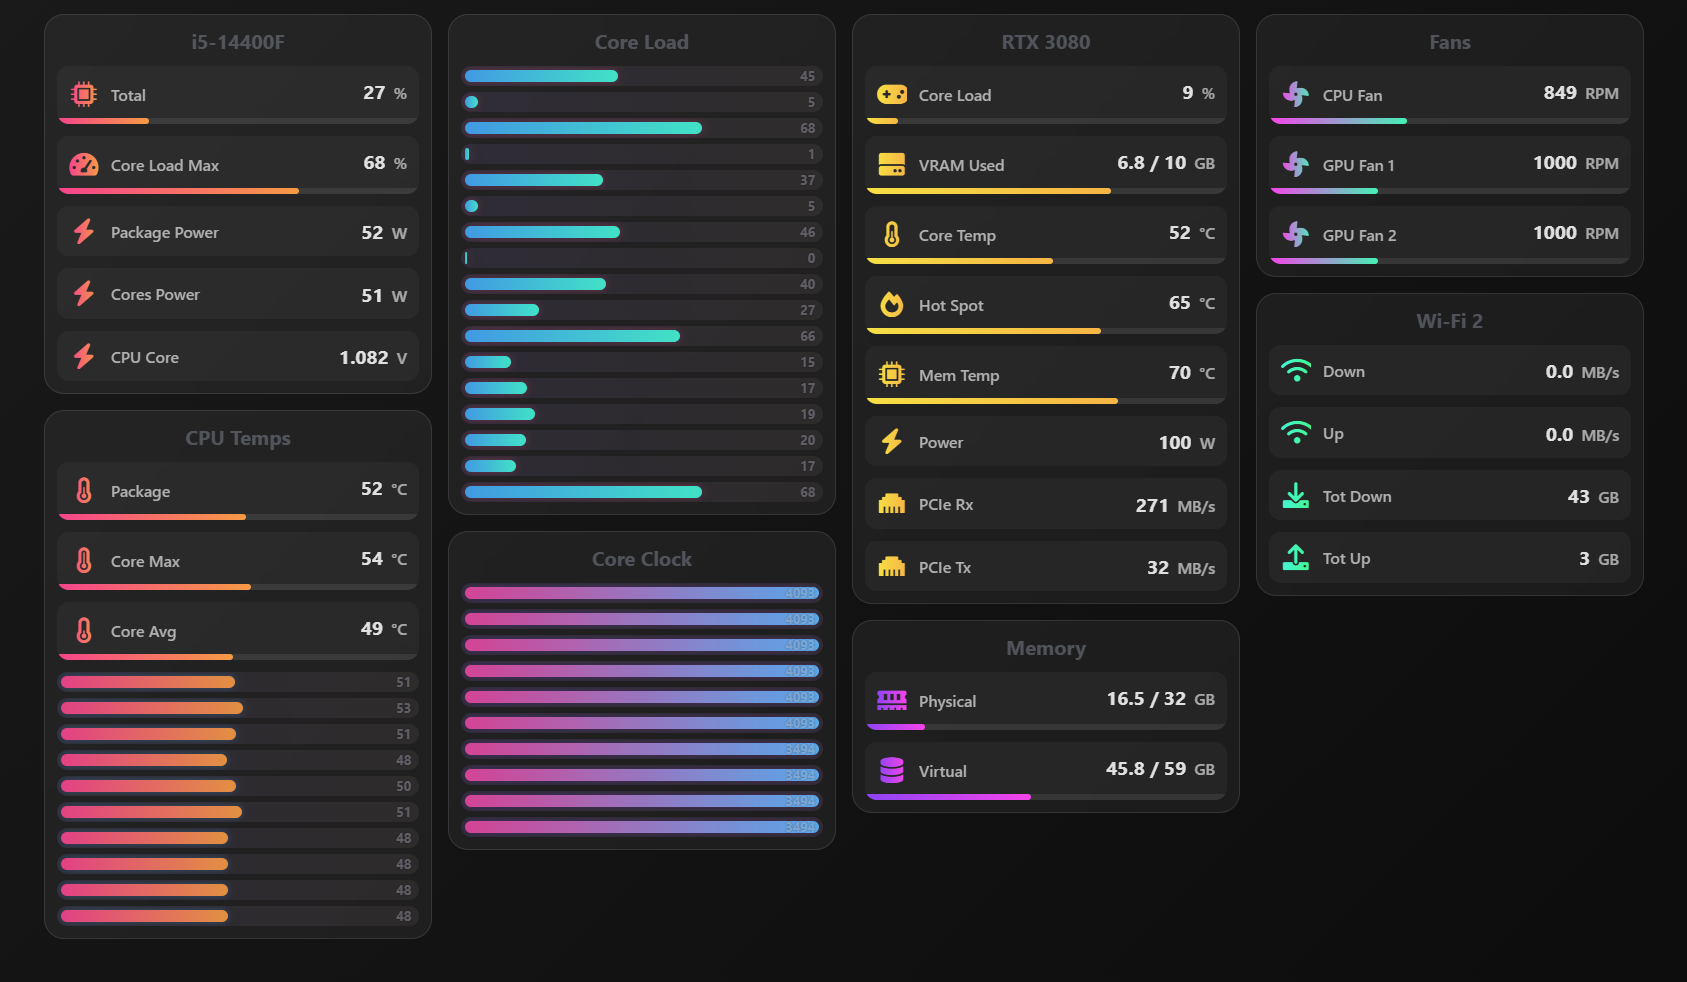
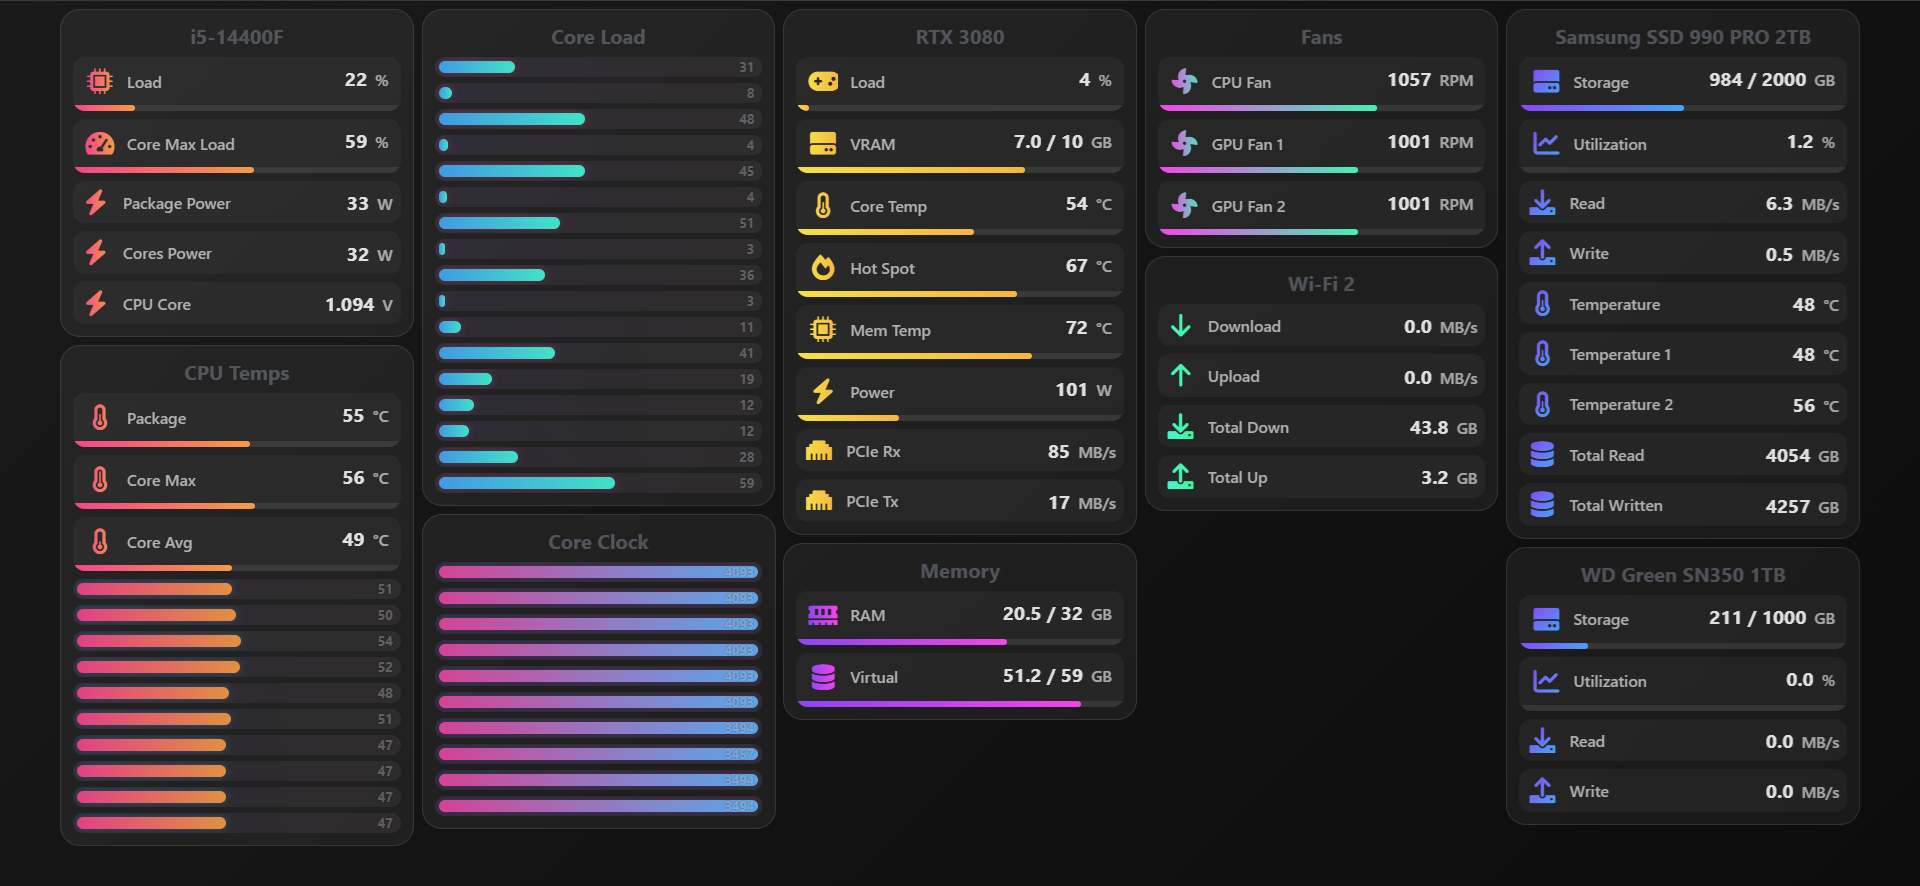
fix bugs

diff --git a/index.html b/index.html
@@ -219,11 +219,11 @@
                     <i class="fas fa-memory sensor-icon"></i>
                     <span class="sensor-label">RAM</span>
                     <div class="sensor-value-container">
-                        <span class="sensor-value" id="memory-combined"></span><span class="sensor-unit">GB</span>
+                        <span class="sensor-value" id="ram"></span><span class="sensor-unit">GB</span>
                     </div>
                 </div>
                 <div class="progress-bar">
-                    <div class="progress-bar-fill" id="memory-combined-bar"></div>
+                    <div class="progress-bar-fill" id="ram-bar"></div>
                 </div>
             </div>
             <div class="sensor-card">
@@ -231,12 +231,11 @@
                     <i class="fas fa-database sensor-icon"></i>
                     <span class="sensor-label">Virtual</span>
                     <div class="sensor-value-container">
-                        <span class="sensor-value" id="virtual-memory-combined"></span><span
-                            class="sensor-unit">GB</span>
+                        <span class="sensor-value" id="virtual-ram"></span><span class="sensor-unit">GB</span>
                     </div>
                 </div>
                 <div class="progress-bar">
-                    <div class="progress-bar-fill" id="virtual-memory-combined-bar"></div>
+                    <div class="progress-bar-fill" id="virtual-ram-bar"></div>
                 </div>
             </div>
         </div>
@@ -412,8 +411,7 @@
                     const htmlId = generateHtmlId(coreLoad.Text, 'load');
                     dynamicSensorMapping[htmlId] = {
                         apiId: coreLoad.SensorId,
-                        type: 'Load',
-                        barMax: 100
+                        barApiId: coreLoad.SensorId,
                     };
                 });
             }
@@ -429,7 +427,7 @@
                     dynamicSensorMapping[htmlId] = {
                         apiId: coreTemp.SensorId,
                         type: 'Temperature',
-                        barMax: 100
+                        barApiId: coreTemp.SensorId,
                     };
                 });
             }
@@ -636,7 +634,6 @@
                 dynamicSensorMapping[usedSpaceId] = {
                     apiId: sensors.usedSpace.SensorId,
                     type: 'Load',
-                    barMax: 100,
                     formatter: (value) => formatStorageCapacity(value, deviceName),
                     fixed: 1
                 };
@@ -654,7 +651,7 @@
                 dynamicSensorMapping[totalActivityId] = {
                     apiId: sensors.totalActivity.SensorId,
                     type: 'Load',
-                    barMax: 100,
+                    barApiId: sensors.totalActivity.SensorId,
                     fixed: 1
                 };
             } if (sensors.readRate) {
@@ -696,7 +693,6 @@
                 )); dynamicSensorMapping[tempId] = {
                     apiId: tempSensor.SensorId,
                     type: 'Temperature',
-                    barMax: 100,
                     fixed: 0
                 };
             }); if (sensors.dataRead) {
@@ -778,11 +774,13 @@
 
             return bar;
         }
+
         function parseValue(valueString) {
             if (!valueString) return NaN;
             const match = valueString.match(/(-?\d+(\.\d+)?)/);
             return match ? parseFloat(match[1]) : NaN;
         }
+
         function formatVRAM(usedValue) {
             if (isNaN(usedValue)) return '';
 
@@ -790,8 +788,7 @@
             if (totalSensor && totalSensor.Value !== undefined) {
                 let totalValue = parseValue(totalSensor.Value);
                 if (!isNaN(totalValue)) {
-                    totalValue /= 1024;
-                    return `${usedValue.toFixed(1)} / ${totalValue.toFixed(0)}`;
+                    return `${(usedValue / 1024).toFixed(1)} / ${(totalValue / 1024).toFixed(0)}`;
                 }
             }
 
@@ -814,29 +811,29 @@
         }
 
         const sensorMapping = {
-            'cpu-total-load': { apiId: '/intelcpu/0/load/0', type: 'Load', barMax: 100 },
-            'cpu-max-load': { apiId: '/intelcpu/0/load/1', type: 'Load', barMax: 100 },
+            'cpu-total-load': { apiId: '/intelcpu/0/load/0', type: 'Load', barApiId: '/intelcpu/0/load/0' },
+            'cpu-max-load': { apiId: '/intelcpu/0/load/1', type: 'Load', barApiId: '/intelcpu/0/load/1' },
             'cpu-package-power': { apiId: '/intelcpu/0/power/0', type: 'Power', fixed: 0 },
             'cpu-cores-power': { apiId: '/intelcpu/0/power/1', type: 'Power', fixed: 0 },
             'cpu-core-voltage': { apiId: '/intelcpu/0/voltage/0', type: 'Voltage', fixed: 3 },
 
-            'cpu-package-temp': { apiId: '/intelcpu/0/temperature/10', type: 'Temperature', barMax: 100 },
-            'cpu-core-max-temp': { apiId: '/intelcpu/0/temperature/21', type: 'Temperature', barMax: 100 },
-            'cpu-core-avg-temp': { apiId: '/intelcpu/0/temperature/22', type: 'Temperature', barMax: 100 },
+            'cpu-package-temp': { apiId: '/intelcpu/0/temperature/10', type: 'Temperature', barApiId: '/intelcpu/0/temperature/10' },
+            'cpu-core-max-temp': { apiId: '/intelcpu/0/temperature/21', type: 'Temperature', barApiId: '/intelcpu/0/temperature/21' },
+            'cpu-core-avg-temp': { apiId: '/intelcpu/0/temperature/22', type: 'Temperature', barApiId: '/intelcpu/0/temperature/22' },
 
-            'gpu-core-load': { apiId: '/gpu-nvidia/0/load/0', type: 'Load', barMax: 100 },
-            'gpu-vram-used': { apiId: '/gpu-nvidia/0/smalldata/1', type: 'SmallData', parseFactor: 1 / 1024, fixed: 1, barApiId: '/gpu-nvidia/0/smalldata/2', formatter: formatVRAM },
-            'gpu-core-temp': { apiId: '/gpu-nvidia/0/temperature/0', type: 'Temperature', barMax: 100 },
-            'gpu-hotspot-temp': { apiId: '/gpu-nvidia/0/temperature/2', type: 'Temperature', barMax: 100 },
-            'gpu-memory-temp': { apiId: '/gpu-nvidia/0/temperature/3', type: 'Temperature', barMax: 100 },
+            'gpu-core-load': { apiId: '/gpu-nvidia/0/load/0', type: 'Load', barApiId: '/gpu-nvidia/0/load/0' },
+            'gpu-vram-used': { apiId: '/gpu-nvidia/0/smalldata/1', type: 'SmallData', parseFactor: 1, fixed: 1, barApiId: '/gpu-nvidia/0/load/3', formatter: formatVRAM },
+            'gpu-core-temp': { apiId: '/gpu-nvidia/0/temperature/0', type: 'Temperature', barApiId: '/gpu-nvidia/0/temperature/0' },
+            'gpu-hotspot-temp': { apiId: '/gpu-nvidia/0/temperature/2', type: 'Temperature', barApiId: '/gpu-nvidia/0/temperature/2' },
+            'gpu-memory-temp': { apiId: '/gpu-nvidia/0/temperature/3', type: 'Temperature', barApiId: '/gpu-nvidia/0/temperature/3' },
             'gpu-power': { apiId: '/gpu-nvidia/0/power/0', type: 'Power', fixed: 0 },
-            'gpu-power-utilization': { apiId: '/gpu-nvidia/0/load/4', type: 'Load', barMax: 100 },
+            'gpu-power-utilization': { apiId: '/gpu-nvidia/0/load/4', type: 'Load', barApiId: '/gpu-nvidia/0/load/4' },
 
             'gpu-pcie-rx': { apiId: '/gpu-nvidia/0/throughput/0', type: 'Throughput', parseFactor: 1 / 1000000, fixed: 0 },
             'gpu-pcie-tx': { apiId: '/gpu-nvidia/0/throughput/1', type: 'Throughput', parseFactor: 1 / 1000000, fixed: 0 },
 
-            'memory-combined': { apiId: '/ram/data/0', type: 'Data', fixed: 1, formatter: formatMemory, barApiId: '/ram/load/0', barMax: 100 },
-            'virtual-memory-combined': { apiId: '/ram/data/2', type: 'Data', fixed: 1, formatter: formatVirtualMemory, barApiId: '/ram/load/1', barMax: 100 },
+            'ram': { apiId: '/ram/data/0', type: 'Data', fixed: 1, formatter: formatMemory, barApiId: '/ram/load/0' },
+            'virtual-ram': { apiId: '/ram/data/2', type: 'Data', fixed: 1, formatter: formatVirtualMemory, barApiId: '/ram/load/1' },
         };
 
         let networkInterfaceMappingsInitialized = false;
@@ -1047,7 +1044,8 @@
             const frameId = requestAnimationFrame(animate);
             animationFrames.set(elementId, frameId);
         }
-        function updateSensorUI(htmlId, value, barMax = null, formatter = null, fixed = 0) {
+
+        function updateSensorUI(htmlId, value, barValue = null, formatter = null, fixed = 0) {
             if (value === undefined || value === null) {
                 return;
             }
@@ -1058,7 +1056,7 @@
             }
 
             const valueElem = getCachedElement(htmlId);
-            const barElem = barMax !== null ? getCachedElement(`${htmlId}-bar`) : null;
+            const barElem = barValue !== null ? getCachedElement(`${htmlId}-bar`) : null;
 
             if (!valueElem && !barElem) {
                 return;
@@ -1077,10 +1075,10 @@
                 }
             }
 
-            if (barElem && barMax !== null && barMax > 0 && !isNaN(value)) {
-                const percentage = Math.max(0, Math.min(100, (value / barMax) * 100));
+            if (barElem && barValue !== null && barValue >= 0 && !isNaN(value)) {
+                const percentage = Math.max(0, Math.min(100, barValue));
                 animateProgressBar(barElem, percentage);
-            } else if (barElem && barMax !== null) {
+            } else if (barElem && barValue !== null) {
                 animateProgressBar(barElem, 0);
             }
         }
@@ -1168,9 +1166,7 @@
                                 continue;
                             }
 
-                            if (config.barMax !== undefined) {
-                                barValue = config.barMax;
-                            } else if (config.barApiId) {
+                            if (config.barApiId) {
                                 const barSensor = flatSensorData[config.barApiId];
                                 if (barSensor && barSensor.Value !== undefined) {
                                     barValue = parseValue(barSensor.Value);

diff --git a/styles.css b/styles.css
@@ -4,19 +4,15 @@
     --text-color: #e0e0e0;
     --accent-color-1: #8d44f6;
     --accent-color-2: #44a6f6;
-    --accent-color-3: #44f6d7;
-    --accent-color-4: #f6e044;
-    --accent-color-5: #f6448d;
     --gradient-1: linear-gradient(135deg, var(--accent-color-1), var(--accent-color-2));
-    --gradient-2: linear-gradient(135deg, var(--accent-color-3), var(--accent-color-4));
     --glass-bg: rgba(255, 255, 255, 0.05);
     --glass-border: rgba(255, 255, 255, 0.1);
     --glass-shadow: rgba(0, 0, 0, 0.3);
     --blur-strength: 10px;
     --border-radius-main: 20px;
     --border-radius-card: 12px;
-    --card-padding: 12px;
-    --gap: 16px;
+    --card-padding: 8px;
+    --gap: 8px;
     overflow-y: scroll;
     scrollbar-width: none;
     -ms-overflow-style: none;
@@ -148,12 +144,12 @@ body {
     padding-inline: 0px;
 
     .sensor-value-container {
-        margin-right: var(--card-padding);
-        margin-bottom: calc(var(--card-padding) * 0.5);
+        margin-right: 12px;
+        margin-bottom: 6px;
     }
 
     .sensor-icon {
-        margin-left: var(--card-padding);
+        margin-left: 12px;
     }
 }
 
